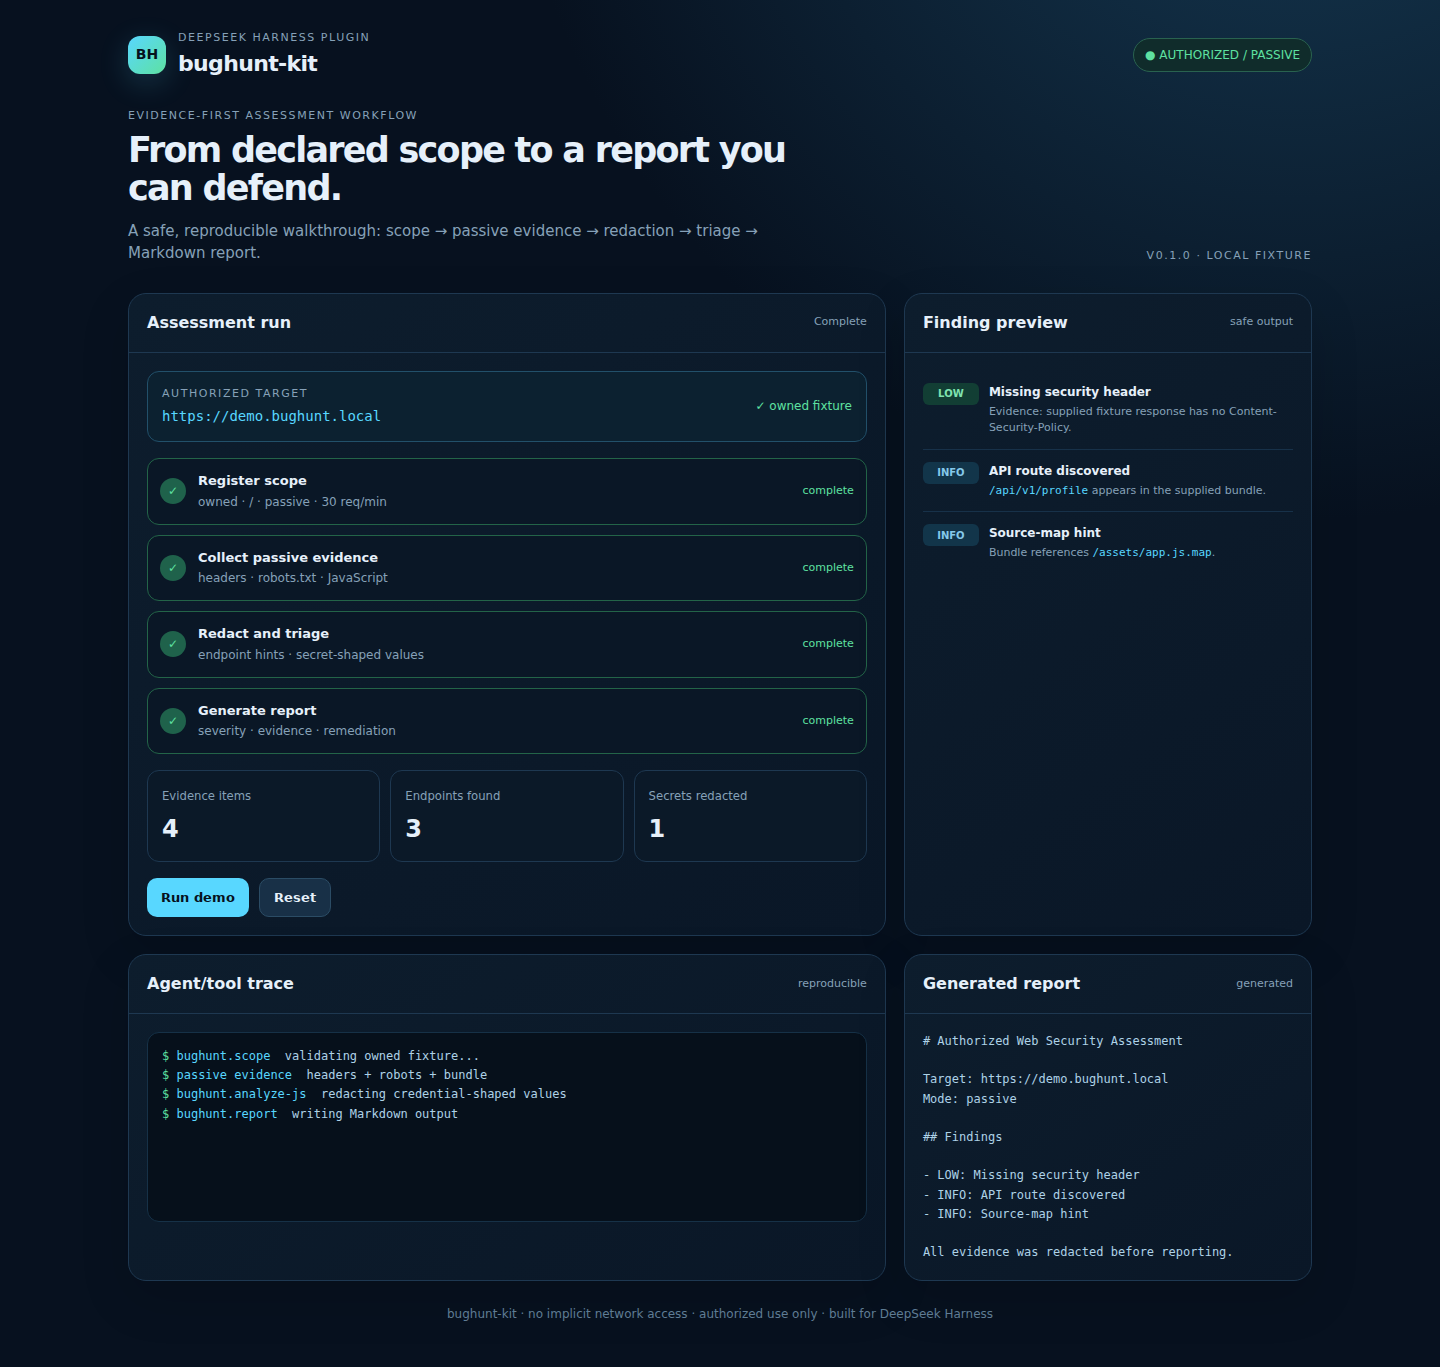
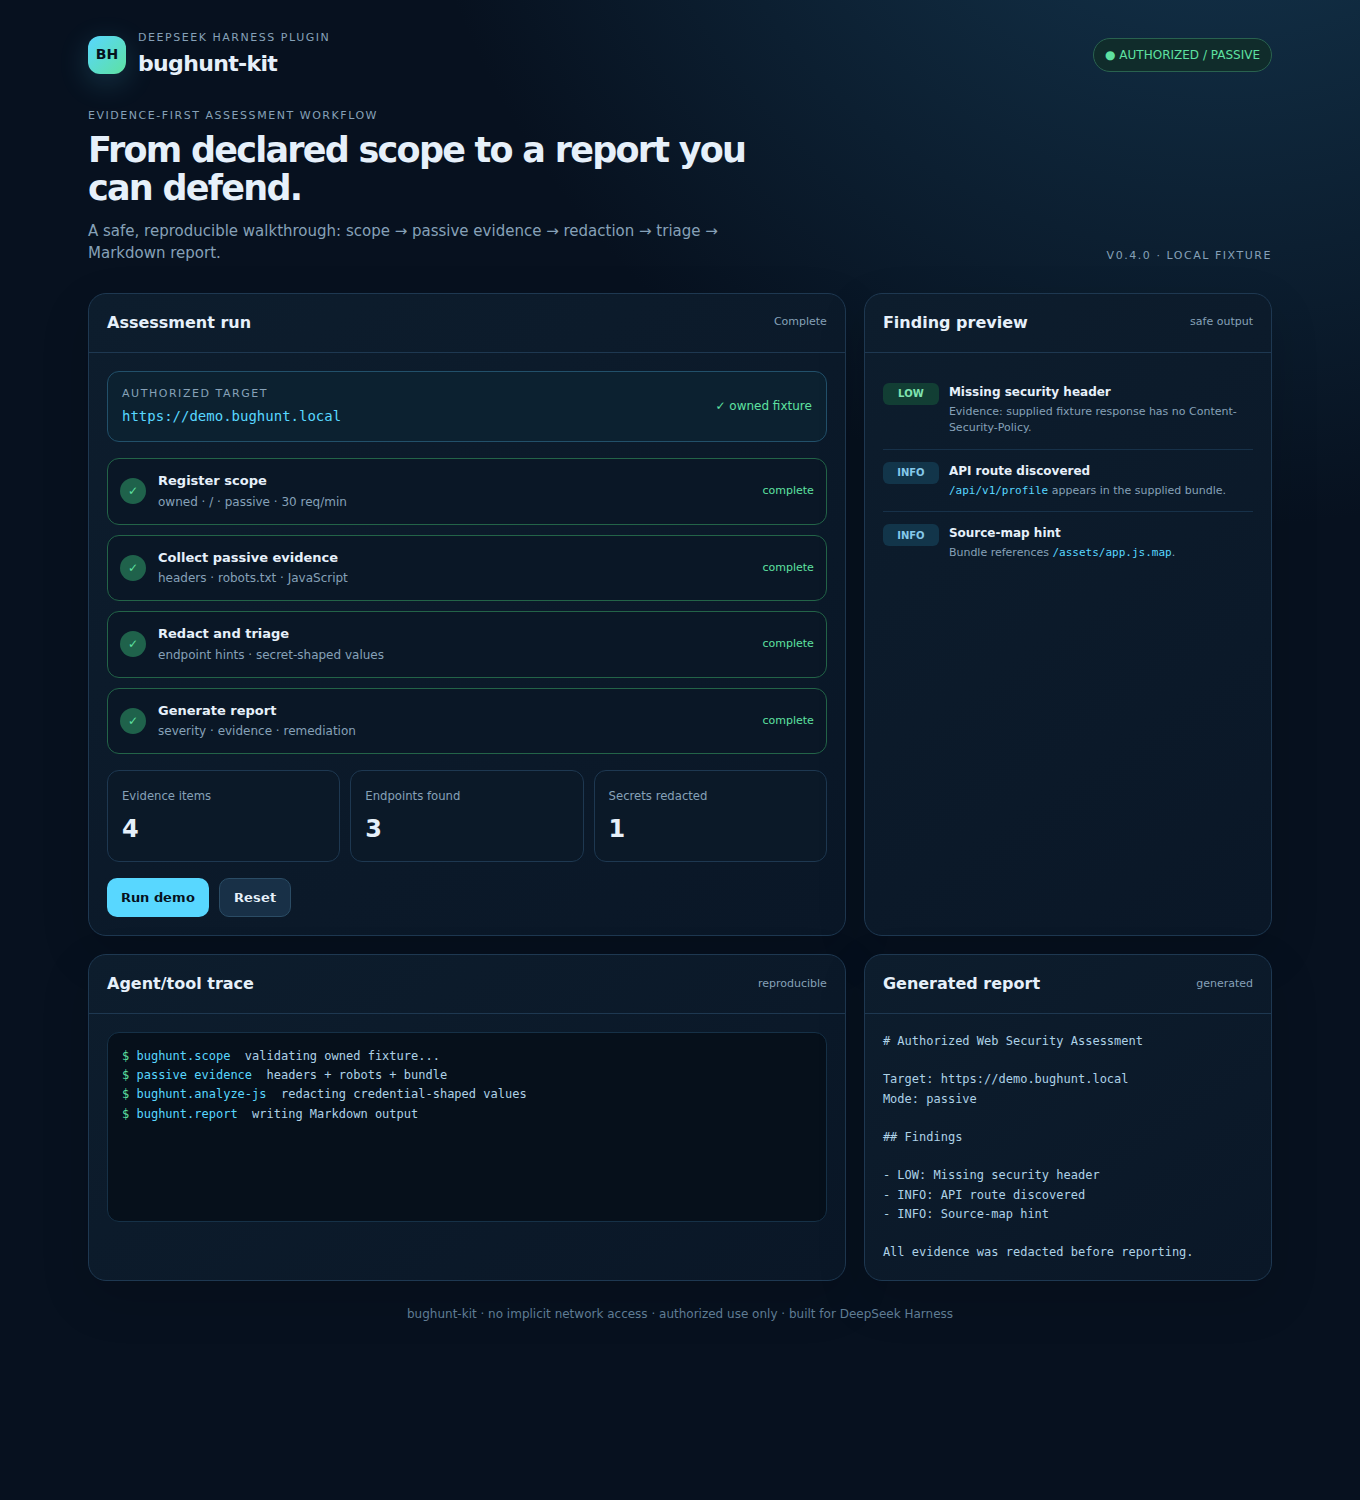
docs: refresh demo GIF full-frame, remove internal regen notes and roadmap

diff --git a/demo/index.html b/demo/index.html
@@ -31,7 +31,7 @@
 <body>
   <main class="app">
     <header class="top"><div class="brand"><div class="mark">BH</div><div><div class="eyebrow">DeepSeek Harness plugin</div><h1>bughunt-kit</h1></div></div><div class="pill">● AUTHORIZED / PASSIVE</div></header>
-    <section class="hero"><div class="hero-copy"><div class="eyebrow">Evidence-first assessment workflow</div><h2>From declared scope to a report you can defend.</h2><p>A safe, reproducible walkthrough: scope → passive evidence → redaction → triage → Markdown report.</p></div><div class="eyebrow">v0.1.0 · local fixture</div></section>
+    <section class="hero"><div class="hero-copy"><div class="eyebrow">Evidence-first assessment workflow</div><h2>From declared scope to a report you can defend.</h2><p>A safe, reproducible walkthrough: scope → passive evidence → redaction → triage → Markdown report.</p></div><div class="eyebrow">v0.4.0 · local fixture</div></section>
     <section class="grid">
       <article class="card"><div class="card-head"><h2>Assessment run</h2><span id="run-status" class="status">Ready to start</span></div><div class="card-body">
         <div class="scope"><div><div class="eyebrow">Authorized target</div><div class="target">https://demo.bughunt.local</div></div><div class="auth">✓ owned fixture</div></div>

diff --git a/README.md b/README.md
@@ -22,21 +22,13 @@ The repository includes a reproducible local fixture and a browser-recorded walk
 
 The demo shows the complete safe path: an owned local fixture, passive scope registration, evidence collection, redaction, endpoint triage, and Markdown report generation. It does not probe a public target and contains no exploit payloads.
 
-Run it locally:
+Try it locally:
 
 ```bash
 npm run demo:serve
 # open http://127.0.0.1:18080 in a browser
 # click "Run demo"
 ```
-
-To regenerate screenshots and the GIF with Playwright:
-
-```bash
-PLAYWRIGHT_BROWSERS_PATH=/tmp/bughunt-playwright-browsers npm run demo:capture
-```
-
-See [`demo/README.md`](demo/README.md) for the fixture details.
 
 ## What v0.4 provides
 
@@ -115,14 +107,6 @@ dsh plugin --profile web add bughunt-kit
 ## Compatibility
 
 The initial scaffold targets DSH `0.2.1-rc.2` and Node.js 20+. Update the compatibility matrix and run the smoke test before each release.
-
-## Roadmap
-
-- v0.1: scoped passive evidence and report MVP
-- v0.2: OpenAPI inventory and API trust-boundary review
-- v0.3: local Web3 calldata, approval-risk explanation, and smart-contract checklist
-- v0.4: built-in DSH Web panel with assessment history and evidence workflow
-- v0.5: persist dashboard state and add report export actions
 
 ## License
 
